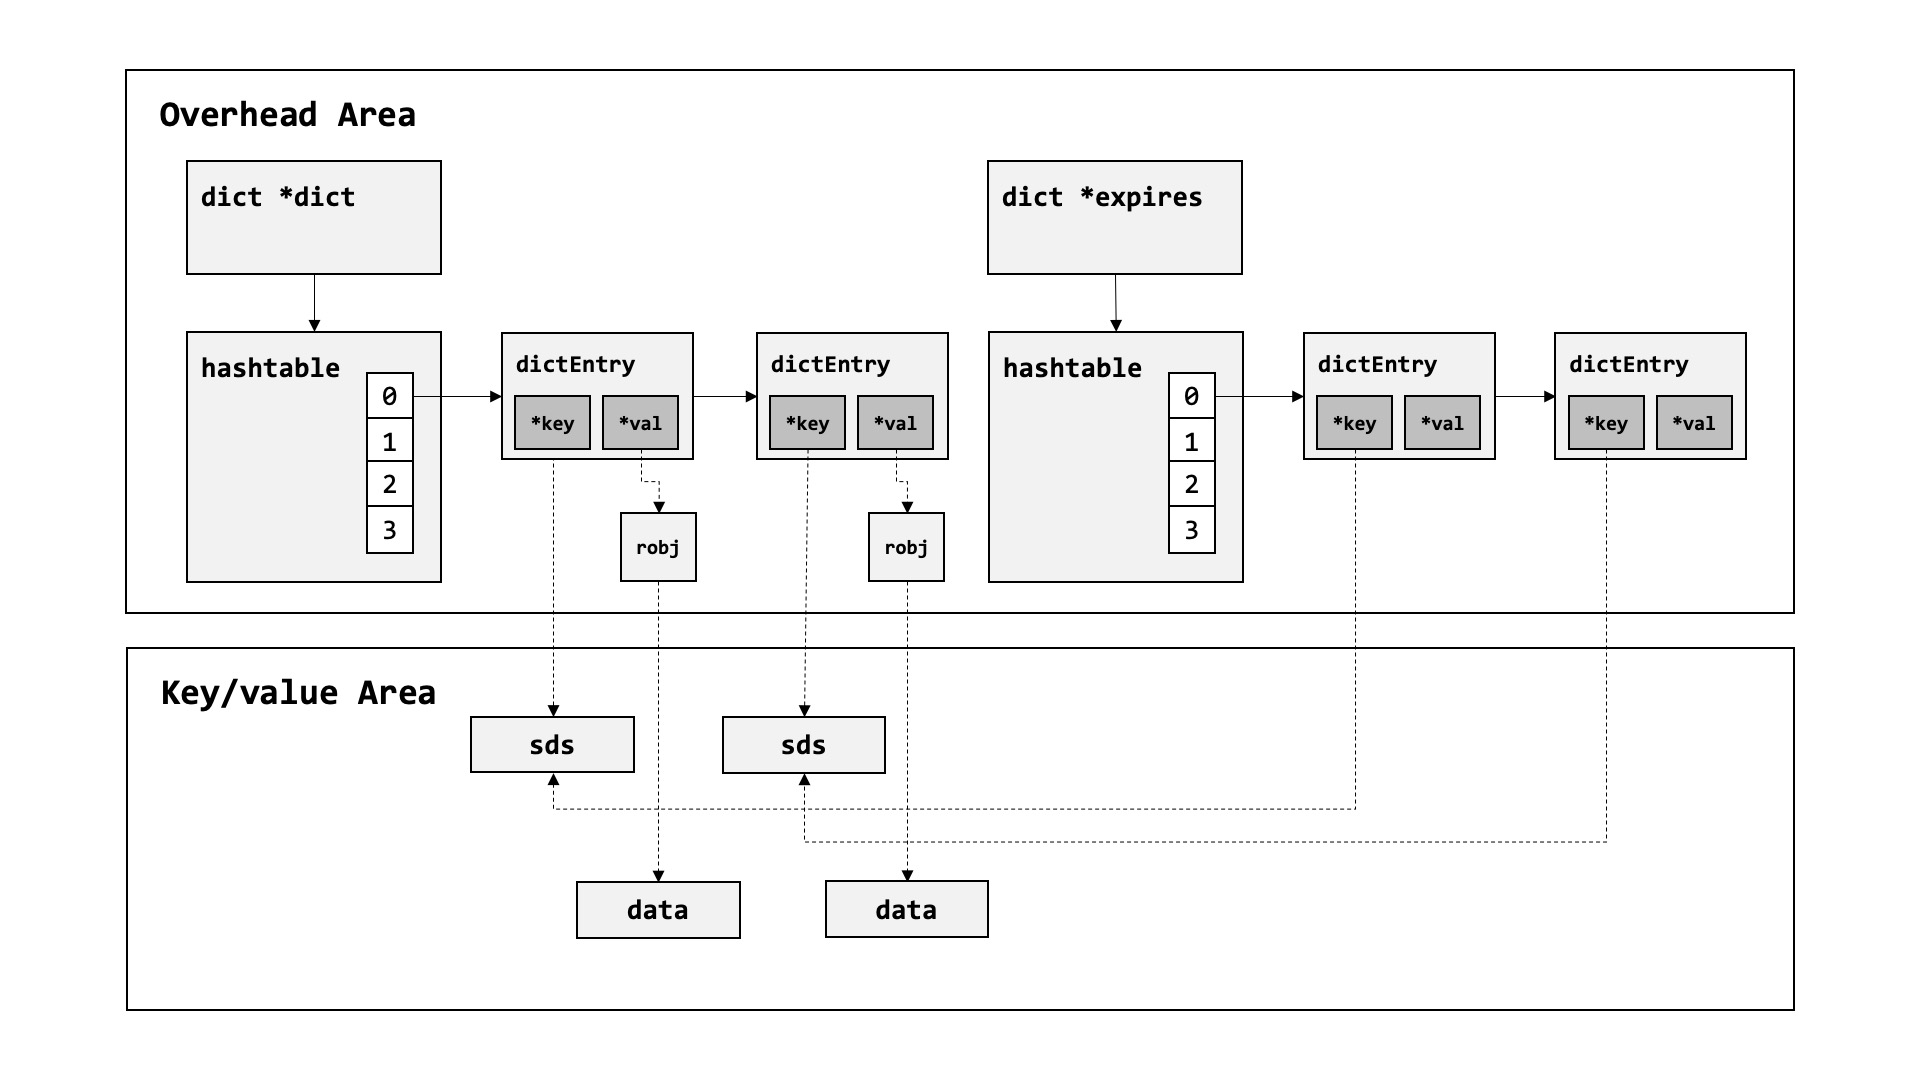
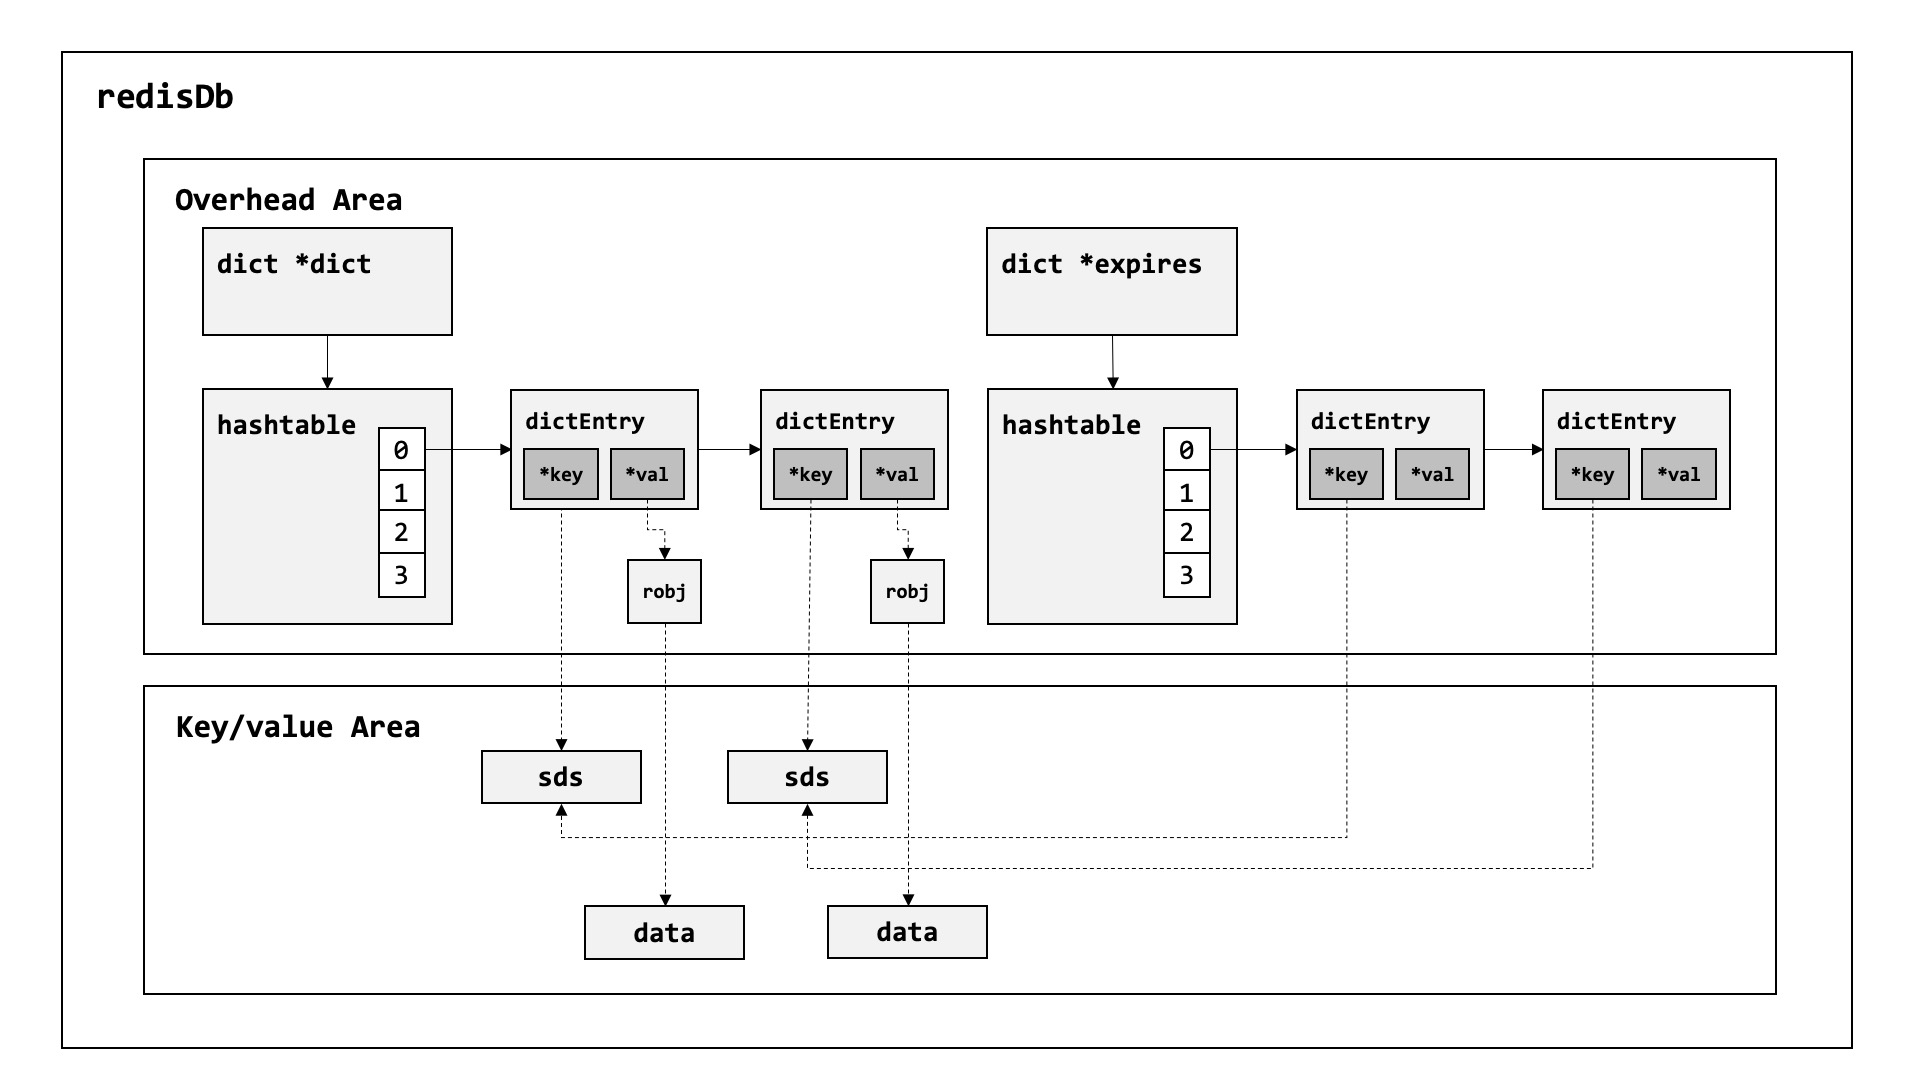
memory overhead

diff --git a/redis/memory_overhead.md b/redis/memory_overhead.md
@@ -15,10 +15,13 @@
     - OBJ_ENCODING_EMBSTR: robj->ptr이 가리키는 문자열의 크기와 robj 크기를 더한 값을 반환
 - sdsAllocSize
   - 키의 길이에 대한 메모리 할당량을 반환
-- sizeof(dictEntry)
+- sizeof(dictEn try)
   - 키/값을 저장하는 dictEntry의 크기를 반환
 
-server.h
+
+## 주요 구조체
+
+### redisDb
 ```c
 typedef struct redisDb {
     dict *dict;                 /* The keyspace for this DB */
@@ -32,38 +35,10 @@ typedef struct redisDb {
     list *defrag_later;         /* List of key names to attempt to defrag one by one, gradually. */
 } redisDb;
 ```
+레디스의 database. 논리적인 데이터 공간. redis.conf의 databases 변수에 의해 공간의 개수를 정할 수 있는데, 기본값은 16이다.
 
-dict.h
+### dict
 ```c
-typedef struct dictEntry {
-    void *key;
-    union {
-        void *val;
-        uint64_t u64;
-        int64_t s64;
-        double d;
-    } v;
-    struct dictEntry *next;
-} dictEntry;
-
-typedef struct dictType {
-    uint64_t (*hashFunction)(const void *key);
-    void *(*keyDup)(void *privdata, const void *key);
-    void *(*valDup)(void *privdata, const void *obj);
-    int (*keyCompare)(void *privdata, const void *key1, const void *key2);
-    void (*keyDestructor)(void *privdata, void *key);
-    void (*valDestructor)(void *privdata, void *obj);
-} dictType;
-
-/* This is our hash table structure. Every dictionary has two of this as we
- * implement incremental rehashing, for the old to the new table. */
-typedef struct dictht {
-    dictEntry **table;
-    unsigned long size;
-    unsigned long sizemask;
-    unsigned long used;
-} dictht;
-
 typedef struct dict {
     dictType *type;
     void *privdata;
@@ -72,8 +47,37 @@ typedef struct dict {
     unsigned long iterators; /* number of iterators currently running */
 } dict;
 ```
+해시테이블을 보유하는 구조체. 기본적으로 키를 관리하기 위해 사용되나, ttl이 지정된 키, blocking key등등 다양한 종류의 키를 관리하는데 사용된다.
 
-server.h
+```c
+/* This is our hash table structure. Every dictionary has two of this as we
+ * implement incremental rehashing, for the old to the new table. */
+typedef struct dictht {
+    dictEntry **table;
+    unsigned long size;
+    unsigned long sizemask;
+    unsigned long used;
+} dictht;
+```
+**dictht**: 해시테이블로 버킷을 관리한다. 각각의 버킷은 dictEntry와 연결된다.
+
+### dictEntry
+```c
+// 24 bytes
+typedef struct dictEntry {
+    void *key;
+    union { 
+        void *val;
+        uint64_t u64;
+        int64_t s64;
+        double d;
+    } v; // 공용체
+    struct dictEntry *next;
+} dictEntry;
+```
+키와 값의 포인터를 저장하며, 버킷에 연결된 dictEntry는 싱글 링크드 리스트로 연결된다.
+
+### robj
 ```c
 typedef struct redisObject {
     unsigned type:4;
@@ -84,47 +88,51 @@ typedef struct redisObject {
     int refcount;
     void *ptr;
 } robj;
-
-#define LRU_BITS 24
+// #define LRU_BITS 24
 ```
+값(value)을 저장하기 위한 구조체. 참고로 클라이언트로부터 전달받아 아직 가공되기 이전의 문자열도 robj로 표현된다.
 
 dictEntry가 가리키는 key와 val은 모두 robj (redisObject) 이다.
 
+### sds
+작성중
+
+
+## 키스페이스(redisDb)내의 오버헤드 계산
+![overhead](/images/redis_keyspace_overhead.jpg)
+
 ```c
-        mem = dictSize(db->dict) * sizeof(dictEntry) +
-              dictSlots(db->dict) * sizeof(dictEntry*) +
-              dictSize(db->dict) * sizeof(robj);
-        mh->db[mh->num_dbs].overhead_ht_main = mem;
-        mem_total+=mem;
+/*  
+ *  #define dictSlots(d) ((d)->ht[0].size+(d)->ht[1].size)
+ *  #define dictSize(d) ((d)->ht[0].used+(d)->ht[1].used)
+ */
+mem = dictSize(db->dict) * sizeof(dictEntry) +
+      dictSlots(db->dict) * sizeof(dictEntry*) +
+      dictSize(db->dict) * sizeof(robj);
+mh->db[mh->num_dbs].overhead_ht_main = mem;
+mem_total+=mem;
 
-        mem = dictSize(db->expires) * sizeof(dictEntry) +
-              dictSlots(db->expires) * sizeof(dictEntry*);
-        mh->db[mh->num_dbs].overhead_ht_expires = mem;
-        mem_total+=mem;
+mem = dictSize(db->expires) * sizeof(dictEntry) +
+      dictSlots(db->expires) * sizeof(dictEntry*);
+mh->db[mh->num_dbs].overhead_ht_expires = mem;
+mem_total+=mem;
 ```
-
 **overhead_ht_main**
 - 다음의 각 항목을 계산 후, 합한 값이 오버헤드의 값이 된다.
-    - [해시테이블의 used (실제 키의 수)] x [dictEntry의 사이즈.. 대략 50바이트]
-    - [해시테이블의 used (실제 키의 수)] x [robj의 사이즈.. 대략 16바이트]
-    - [해시테이블의 size (버킷<또는 슬롯>의 수)] x [dictEntry의 포인터.. 대략 8바이트]
+    - [해시테이블의 used (실제 키의 수)] x [dictEntry의 사이즈.. 24바이트]
+    - [해시테이블의 used (실제 키의 수)] x [robj의 사이즈.. 16바이트]
+    - [해시테이블의 size (버킷<또는 슬롯>의 수)] x [dictEntry의 포인터.. 8바이트]
 
 **overhead_ht_expires**
 - 다음의 각 항목을 계산 후, 합한 값이 오버헤드의 값이 된다.
-    - [해시테이블의 used (실제 키의 수)] x [dictEntry의 사이즈.. 대략 50바이트]
-    - [해시테이블의 size (버킷<또는 슬롯>의 수)] x [dictEntry의 포인터.. 대략 8바이트]
-
-dict.h
-```c
-#define dictSlots(d) ((d)->ht[0].size+(d)->ht[1].size)
-#define dictSize(d) ((d)->ht[0].used+(d)->ht[1].used)
-```
+    - [해시테이블의 used (실제 키의 수)] x [dictEntry의 사이즈.. 24바이트]
+    - [해시테이블의 size (버킷<또는 슬롯>의 수)] x [dictEntry의 포인터.. 16바이트]
 
 **key**는 sds로 저장된다. 값은 **robj**로 저장된다.
 
-- **redisDb**: 레디스의 database. 논리적인 데이터 공간. redis.conf의 databases 변수에 의해 공간의 개수를 정할 수 있고, 기본적으로는 16개의 공간을 가진다.
-- **dict**: 해시테이블을 보유하는 구조체. 기본적으로 키를 관리하기 위해 사용되나, ttl이 지정된 키, blocking key등등 다양한 종류의 키를 관리하는데 사용된다.
+
+
 - **dictht**: 해시테이블로 버킷을 관리한다. 각각의 버킷은 dictEntry와 연결된다.
-- **dictEntry**: 키와 값의 포인터를 저장하며, 버킷에 연결된 dictEntry는 싱글 링크드 리스트로 연결된다.
+- 
 - **sds**: 키는 단일 문자열로 관리된다. 키 이외에도 문자열을 저장하고 표현하는데 사용된다.
 - **robj**: 값(value)을 저장하기 위한 구조체. 참고로 클라이언트로부터 전달받아 아직 가공되기 이전의 문자열도 robj로 표현된다.
